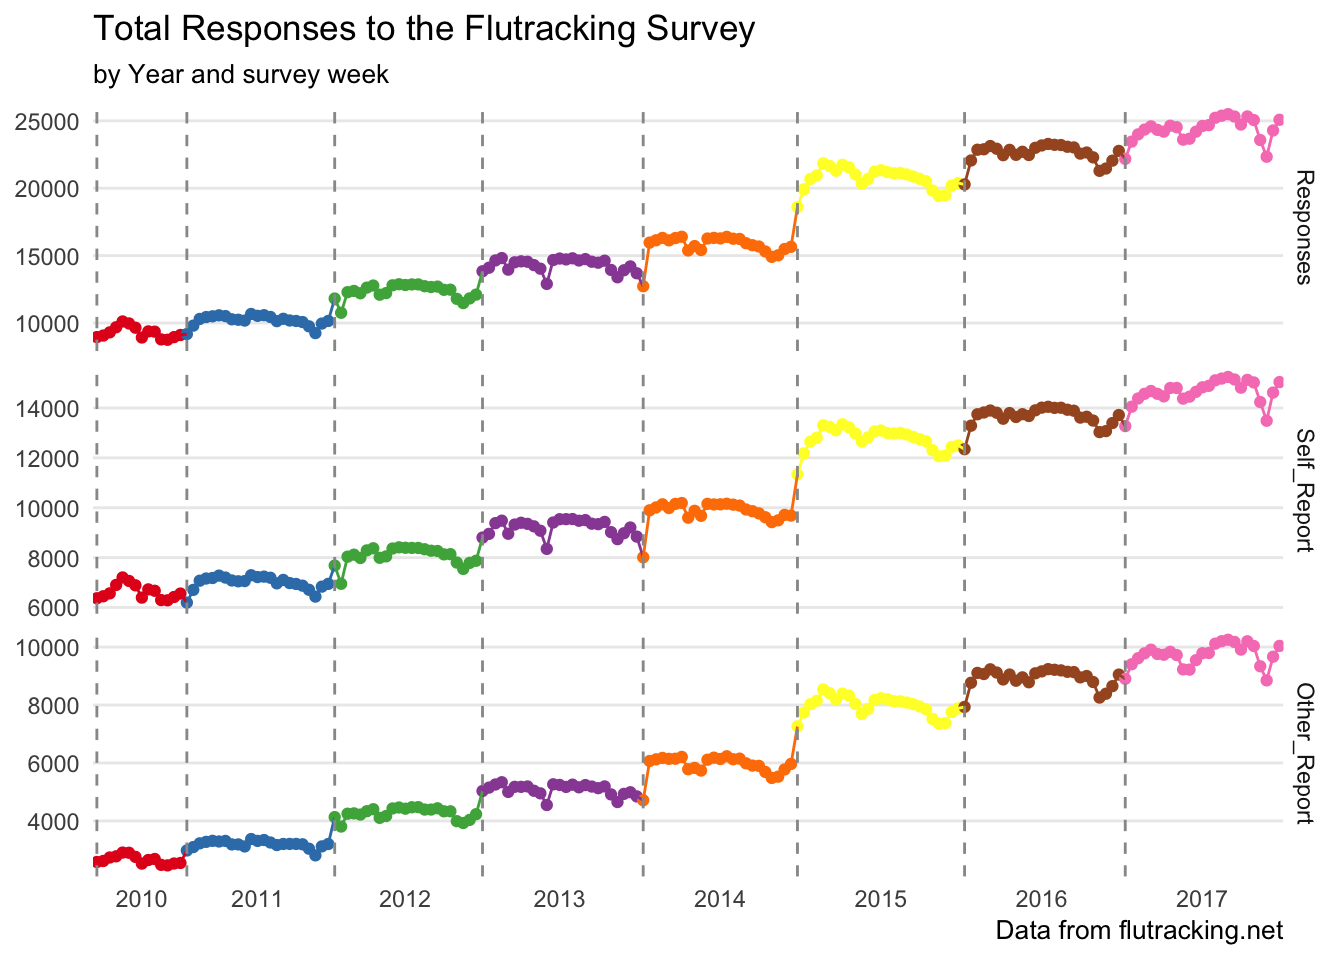
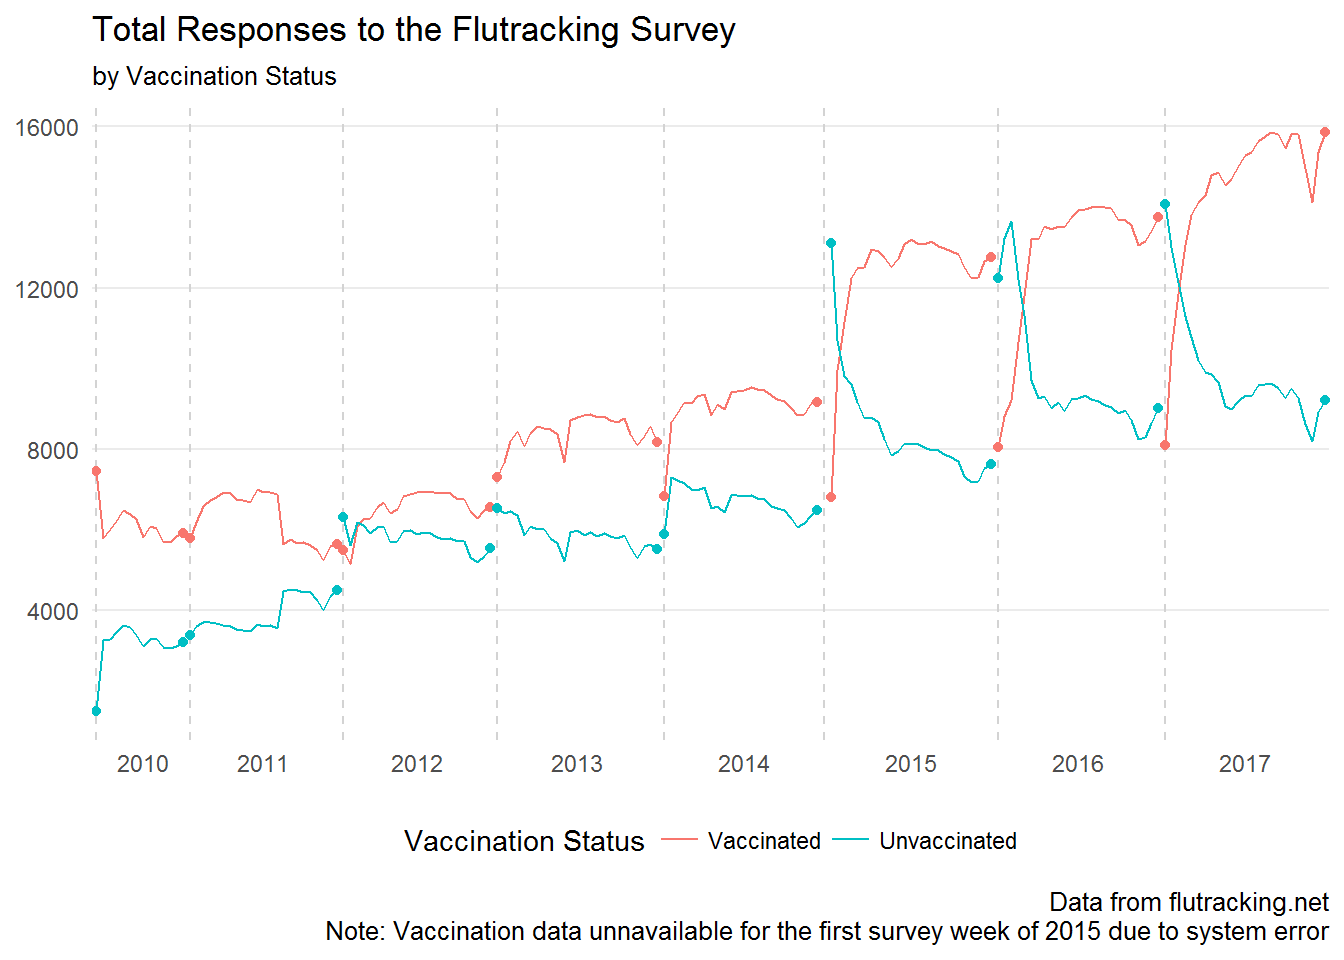
Refreshing post

diff --git a/content/post/2017-11-14-available-time-series.html b/content/post/2017-11-14-available-time-series.html
@@ -11,7 +11,7 @@ slug: available-time-series
 
 
 
-<p>A brief summary of all of the available datasets within the publically available Flutracking reports. The data itself will be accessible on another page. This is still just a test.</p>
+<p>The data ranges from 2010 - 2017 but it is not an unbroken time series. The survey runs for about six months each year - usually beginning in May and ending in October - however the earlier years tend to have fewer surveys and each year does not span the same date range. The table below is a brief summary of this information.</p>
 <div id="summary-data" class="section level1">
 <h1>Summary Data</h1>
 <table class='gmisc_table' style='border-collapse: collapse; margin-top: 1em; margin-bottom: 1em;' >
@@ -84,22 +84,42 @@ slug: available-time-series
 </tbody>
 </table>
 </div>
-<div id="plots-of-respondents" class="section level1">
-<h1>Plots of Respondents</h1>
+<div id="plots-of-respondent-data" class="section level1">
+<h1>Plots of Respondent Data</h1>
+<p>Here you can find a number of explanatory plots of the different time series available in the full data set.</p>
 <div id="total-respondents" class="section level2">
 <h2>Total Respondents</h2>
+<p>Below is plot of the total number of respondents to the Flutracking survey for each week.</p>
 <p><img src="/post/2017-11-14-available-time-series_files/figure-html/Total-1.png" width="672" /></p>
 </div>
 <div id="types-of-responses" class="section level2">
 <h2>Types of Responses</h2>
+<p>Survey participants can respond both for themselves (<em>Self</em>) and for other (<em>Other</em>) members of their household. The below plot breaks the total response data down into these groups.</p>
 <p><img src="/post/2017-11-14-available-time-series_files/figure-html/unnamed-chunk-2-1.png" width="672" /></p>
 </div>
-<div id="self-reporting" class="section level2">
-<h2>Self Reporting</h2>
+<div id="vaccination-status" class="section level2">
+<h2>Vaccination Status</h2>
+<p>Here the data is broken down into whether or not the subject of the survey (i.e. both self reports and others) has received the annual influenza vaccination. Note the spikes at the beginning of each year in the number of unvaccinated respondents due to the survey period beginning before some people have the chance to receive the vaccination.</p>
+<pre><code>## Warning: Removed 2 rows containing missing values (geom_path).</code></pre>
 <p><img src="/post/2017-11-14-available-time-series_files/figure-html/SelfReport-1.png" width="672" /></p>
 </div>
-<div id="reporting-for-others" class="section level2">
-<h2>Reporting for Others</h2>
-<p><img src="/post/2017-11-14-available-time-series_files/figure-html/OtherReport-1.png" width="672" /></p>
+<div id="clinical-staff" class="section level2">
+<h2>Clinical Staff</h2>
+<pre><code>## Warning: Removed 3 rows containing missing values (geom_path).</code></pre>
+<pre><code>## Warning: Removed 3 rows containing missing values (geom_point).</code></pre>
+<p><img src="/post/2017-11-14-available-time-series_files/figure-html/ClinicalStaff-1.png" width="672" /></p>
+</div>
+</div>
+<div id="plots-of-influenza-like-illness-symptoms-data" class="section level1">
+<h1>Plots of Influenza-like-illness Symptoms Data</h1>
+<div id="ili-reported" class="section level2">
+<h2>% ILI Reported</h2>
+<p><img src="/post/2017-11-14-available-time-series_files/figure-html/ILIReported-1.png" width="672" /></p>
+</div>
+<div id="ili-reported-with-absence" class="section level2">
+<h2>% ILI Reported with Absence</h2>
+<pre><code>## Warning: Removed 1 rows containing missing values (geom_path).</code></pre>
+<pre><code>## Warning: Removed 1 rows containing missing values (geom_point).</code></pre>
+<p><img src="/post/2017-11-14-available-time-series_files/figure-html/ILIReportedwAbsence-1.png" width="672" /></p>
 </div>
 </div>
